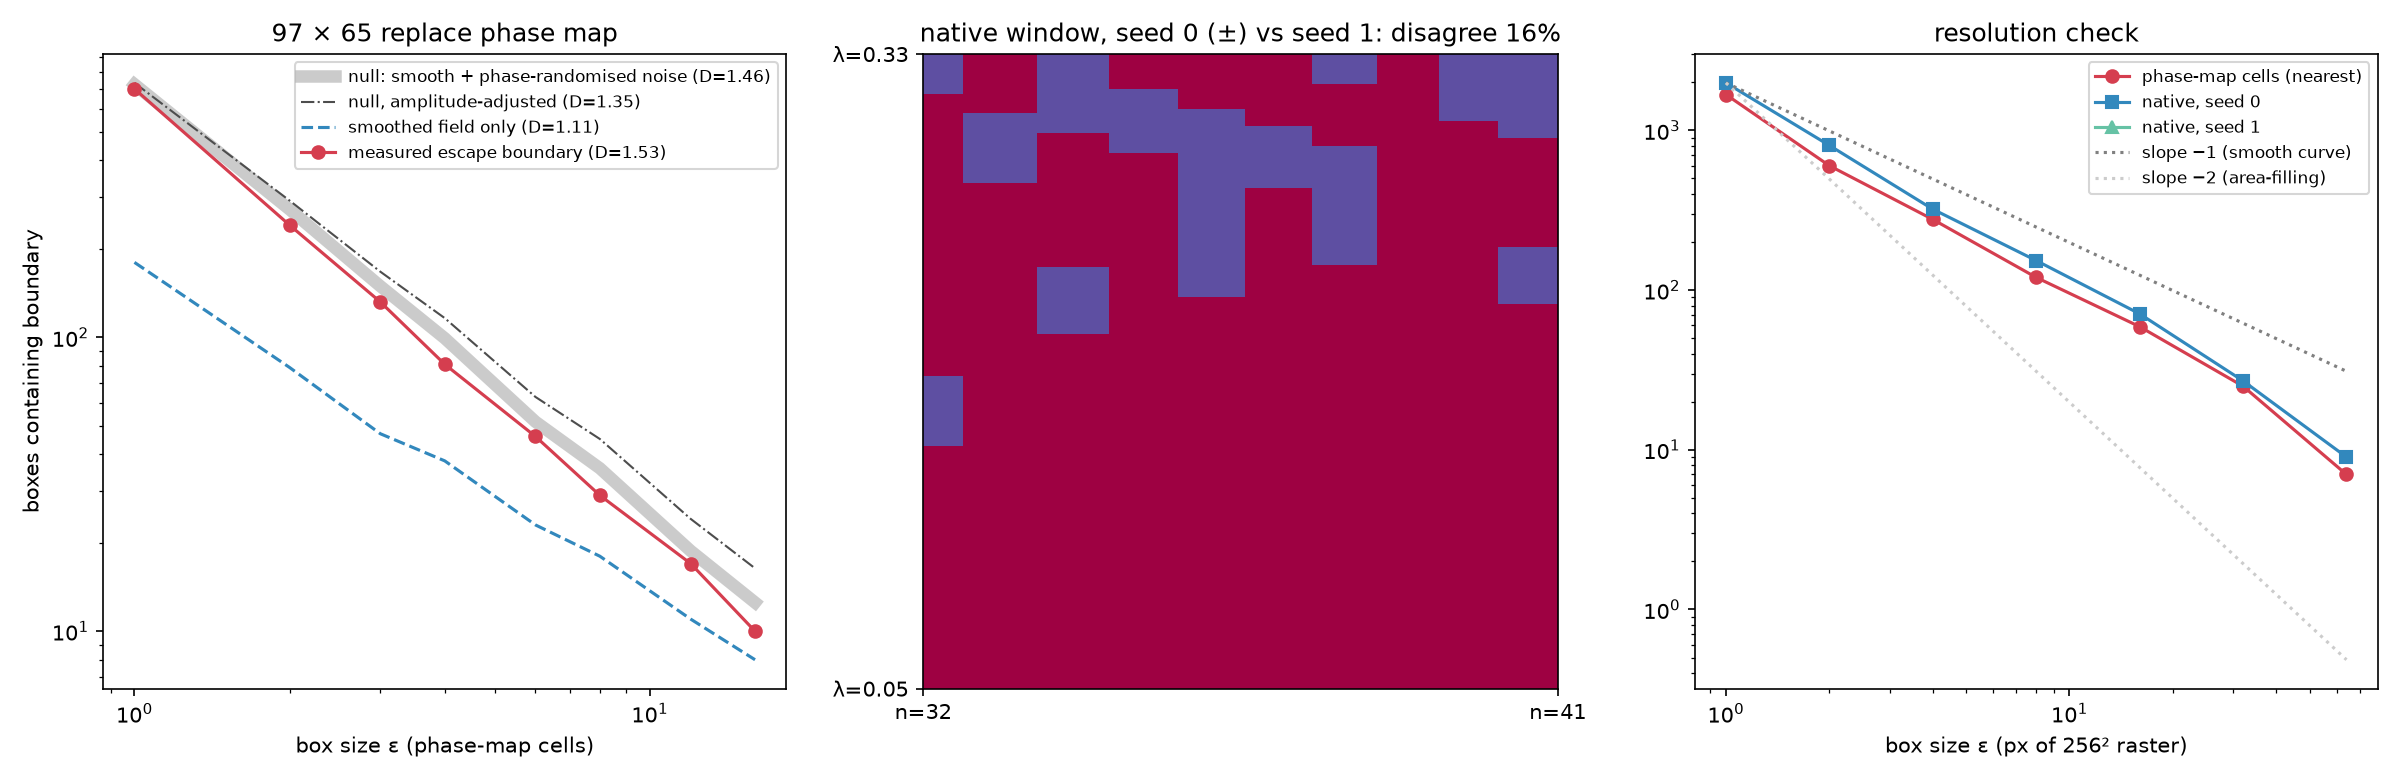
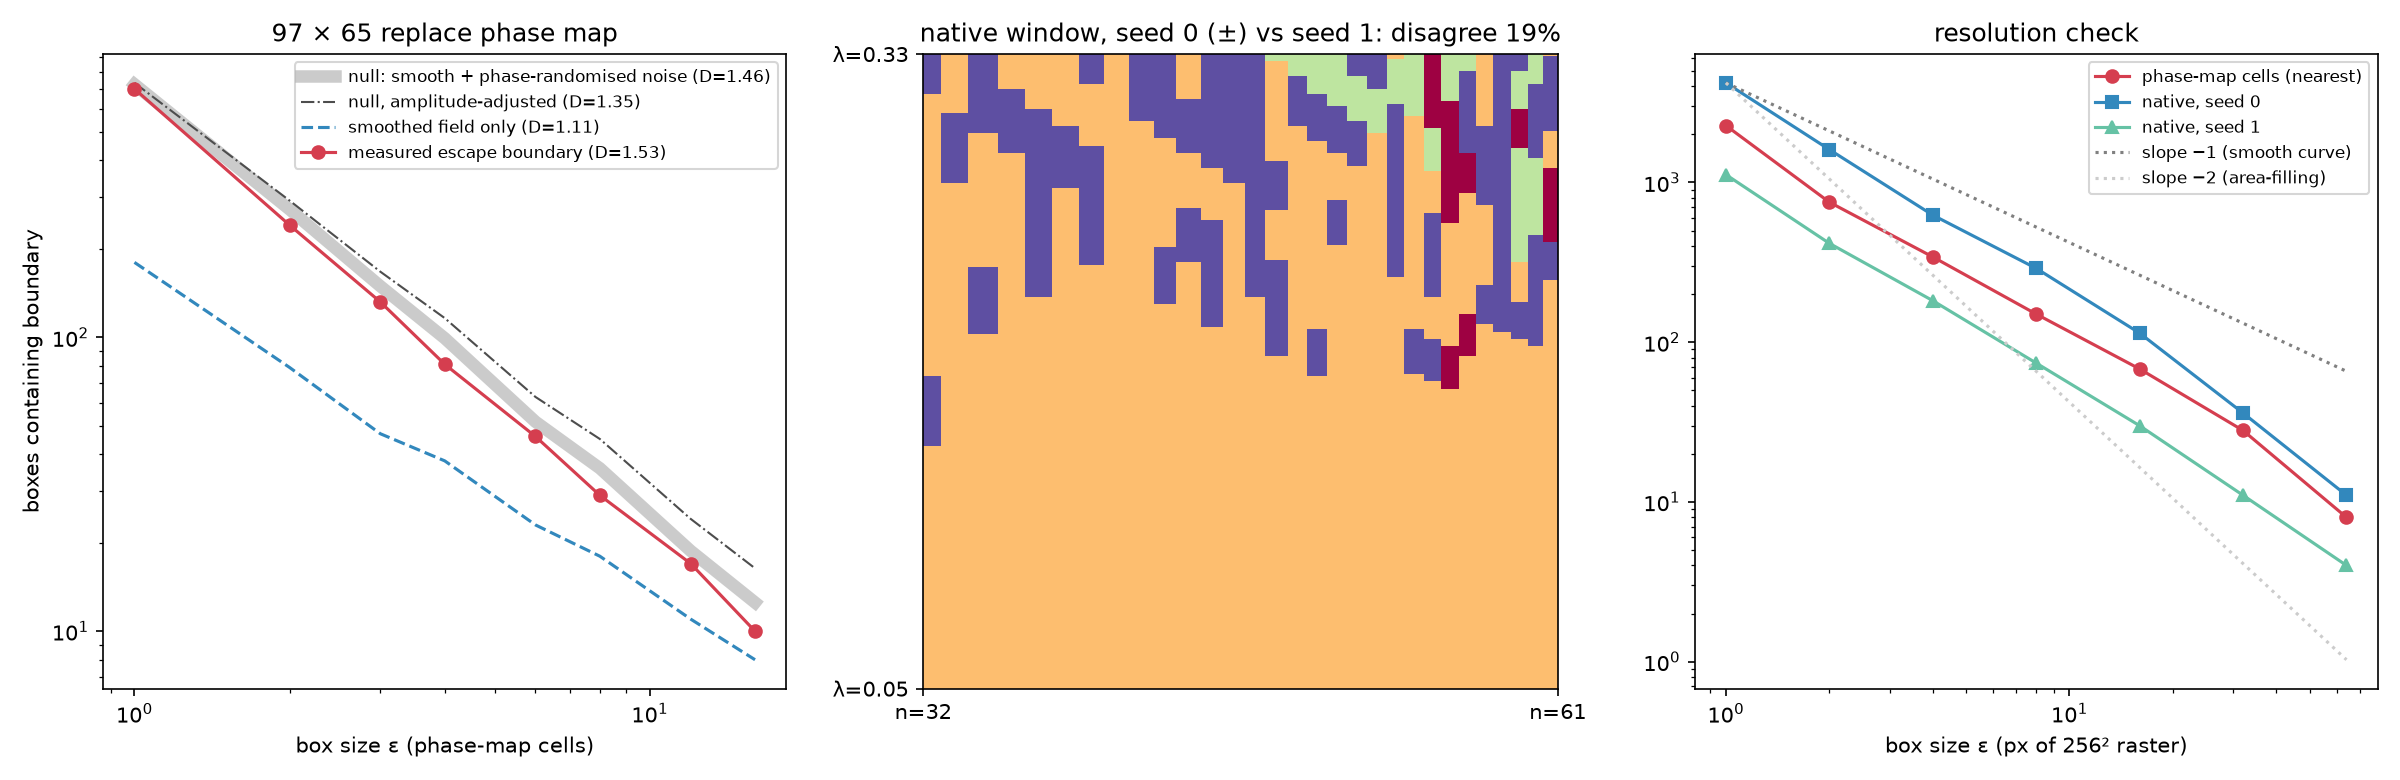
art/ouroboros: accumulate phase map + replace/accumulate diptychs, README accumulate section

diff --git a/art/ouroboros/verify_compute.py b/art/ouroboros/verify_compute.py
@@ -46,7 +46,8 @@ if job in ("seeds", "all") and not os.path.exists("cache/verify_seeds.npz"):
 
 if job in ("native", "all") and not os.path.exists("cache/verify_native.npz"):
     rows = []
-    for n in range(32, 97):
+    order = range(96, 31, -1) if "--rev" in sys.argv else range(32, 97)  # --rev: 2nd worker from the top
+    for n in order:
         part = f"cache/parts/verify_native_n{n}.npz"
         if os.path.exists(part):
             rows.append(dict(np.load(part))); continue
@@ -58,5 +59,6 @@ if job in ("native", "all") and not os.path.exists("cache/verify_native.npz"):
                  sw2=r["sw2"].astype(np.float32))
         np.savez(part, **d); rows.append(d)
         log(f"native n={n} rows={len(nr)}")
+    rows.sort(key=lambda r: int(r["n"][0]))
     np.savez_compressed("cache/verify_native.npz", **{k: np.concatenate([r[k] for r in rows]) for k in rows[0]})
     log("wrote verify_native")

diff --git a/art/ouroboros/verify.py b/art/ouroboros/verify.py
@@ -130,8 +130,10 @@ ax[0].set_title("97 × 65 replace phase map")
 if parts:
     rows = [dict(np.load(p)) for p in parts]
     nat = {k: np.concatenate([r[k] for r in rows]) for k in rows[0]}
-    nmax_done = int(nat["n"].max())
-    n_hi = min(96, nmax_done)
+    have = set(int(x) for x in np.unique(nat["n"]))
+    n_hi = 32
+    while n_hi + 1 in have and n_hi < 96:
+        n_hi += 1  # contiguous range from 32
     esc_nat = ((nat["sw2"] - nat["sw2"][:, :1]).max(1) - TAU) > 0
     lut = {(int(n), int(r), int(sd)): e for n, r, sd, e in zip(nat["n"], nat["nr"], nat["seed"], esc_nat)}
     R = 256

diff --git a/art/ouroboros/README.md b/art/ouroboros/README.md
@@ -54,7 +54,17 @@ Each cell is **one chain** (seed 0) of 80 refits of an 8-component GMM to the ri
 </table>
 
 Also: [phase_ring_gmm_replace_sw2_crameri_lajolla.png](gallery/phase_ring_gmm_replace_sw2_crameri_lajolla.png).
-<!-- ACCUMULATE_DIPTYCH -->
+
+**Replace vs accumulate diptych.** The same field and colour scale, with an accumulate map on the right (33 × 33 chains, nearest-upsampled onto the 97 × 65 layout).
+
+<img src="gallery/phase_ring_gmm_split_sd_spectral.png" width="100%">
+
+<table>
+<tr><td><img src="gallery/phase_ring_gmm_sw2_crameri_batlow.png"></td><td><img src="gallery/phase_ring_gmm_sw2_sepia.png"></td></tr>
+</table>
+
+Also: [aurora/ember](gallery/phase_ring_gmm_split_aurora_ember.png), [Hubble SHO](gallery/phase_ring_gmm_split_hubble_sho.png), [lajolla](gallery/phase_ring_gmm_sw2_crameri_lajolla.png).
+Under **accumulate**, 3.7% of cells escape, against 27.7% under replace. At λ=0 the escaped share is 6% of n columns for accumulate and 98% for replace. The only cells that escape are a few columns at n ≤ 13 plus isolated cells at n=26 and n=38, where the generation-0 fit is already poor. The median $SW_2(80)/SW_2(0)$ is 1.16 for accumulate (max 3.0) and 1.28 for replace (max 7.5). This reproduces Gerstgrasser et al.'s central claim on this toy.
 
 **What to read in it.** Collapse is a small-$n$, small-$\lambda$ phenomenon. The escape boundary runs from λ≈0.75 at n=8 down to λ≈0.05 at n≈128. Above n≈128 only a thin band at λ≲0.05 still escapes within 80 generations. The **staircase** at small n is real, not a rendering artefact: only $\lfloor\lambda n\rfloor$ matters, so at n=8 the 97 rows contain just 9 distinct chains. The faint **vertical streaks** come from CRN: all λ in one column share one real dataset and one noise stream, so a lucky or unlucky column is lucky or unlucky all the way up.
 
@@ -74,7 +84,7 @@ Measured: every tile is 20 000 samples of that generation's model (GMM K=8, n=12
 <tr><td><img src="gallery/ridgeline_ring_gmm_anchored_night.png"></td><td><img src="gallery/ridgeline_ring_gmm_accumulate_night.png"></td></tr>
 </table>
 
-"The tails go first." One ridge per 2 generations, showing the histogram of each model sample's distance to the nearest true mode centre in units of $\sigma$ (log axis). Right margin: share of samples beyond $2\sigma$. Under **replace** the ridge slides left from 1σ to ≈0.15σ by generation 150, and the share beyond 2σ falls from 10.8% (gen 0) to 0.8% (gen 10) to 0.0% (gen 50+). **Anchored** stays at 5–9% and **accumulate** at ≈7.5%. Line art and ground are aesthetic.
+"The tails go first." One ridge per 2 generations, showing the density (per log unit) of each model sample's distance to the nearest centre of the *model's own* mixture components, in units of the true per-mode $\sigma$ (log axis). The dashed ridge on top is the true distribution. Right margin: share of samples beyond $2\sigma$. Under **replace** the ridge slides left from 1σ to ≈0.15σ by generation 150, and the share beyond 2σ falls from 10.8% (gen 0) to 0.8% (gen 10) to 0.0% (gen 50+). **Anchored** stays at 5–9% and **accumulate** at ≈7.5%. Line art and ground are aesthetic.
 
 ### 3.5 Filix ouroborum (fern)
 <table>
